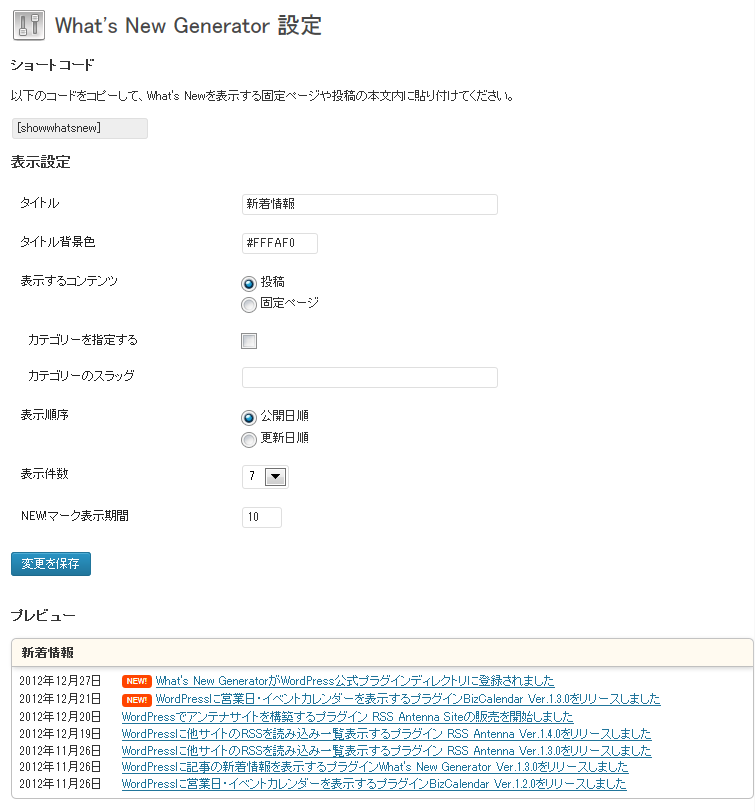
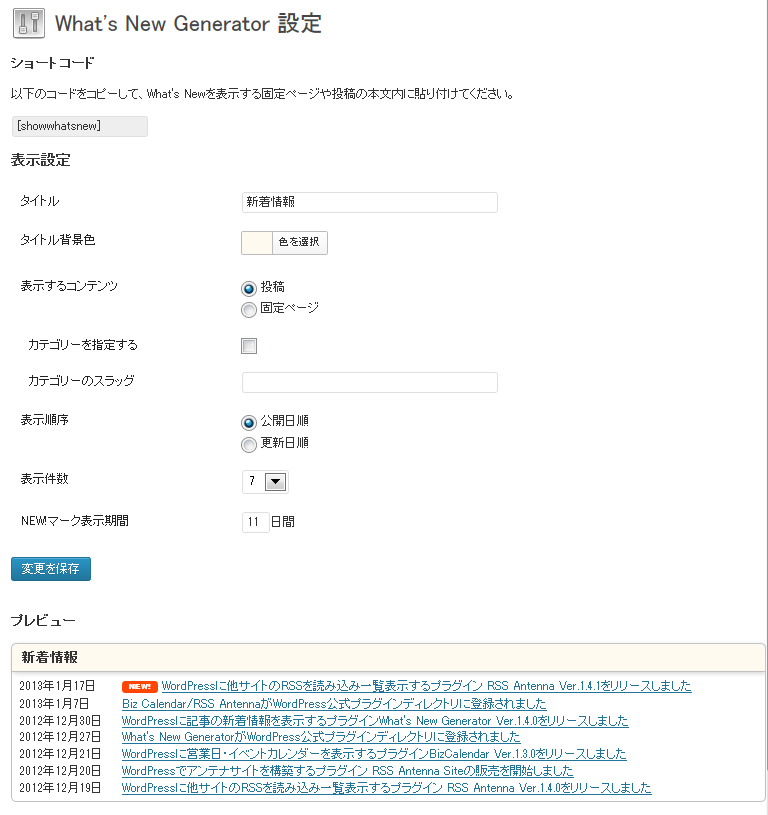
color picker追加
git-svn-id: https://plugins.svn.wordpress.org/whats-new-genarator/trunk@655155 b8457f37-d9ea-0310-8a92-e5e31aec5664

diff --git a/whats-new-admin.js b/whats-new-admin.js
@@ -1,0 +1,3 @@
+jQuery(document).ready(function($){
+    $('#wng_background_color').wpColorPicker();
+});

diff --git a/whats-new-generator.php b/whats-new-generator.php
@@ -3,7 +3,7 @@
 Plugin Name: What's New Generator
 Plugin URI: http://residentbird.main.jp/bizplugin/
 Description: What's New(新着情報)を指定した固定ページや投稿に自動的に表示するプラグインです。
-Version: 1.4.0
+Version: 1.5.0
 Author:WordPress Biz Plugin
 Author URI: http://residentbird.main.jp/bizplugin/
 */
@@ -30,7 +30,6 @@ class WhatsNewPlugin{
 
 	function on_deactivation(){
 		unregister_setting($this->option_name, $this->option_name );
-		//delete_option($this->option_name);
 		wp_deregister_style('whats-new-style');
 	}
 
@@ -50,6 +49,8 @@ class WhatsNewPlugin{
 
 	function myplugin_admin_styles() {
 		wp_enqueue_style( 'whats-new-style' );
+		wp_enqueue_style( 'wp-color-picker' );
+		wp_enqueue_script( 'whats-new-admin-js', plugins_url('whats-new-admin.js', __FILE__ ), array( 'wp-color-picker' ), false, true );
 	}
 
 	function on_activation() {
@@ -84,6 +85,9 @@ class WhatsNewPlugin{
 	}
 
 	function validate($input) {
+		if(!preg_match('/^#[a-f0-9]{6}$/i', $input['wng_background_color'])){
+			$input['wng_background_color'] = "#f5f5f5";
+		}
 		if ( !is_numeric( $input['wng_newmark']) || $input['wng_newmark'] < 0){
 			$input['wng_newmark'] = 0;
 		}
@@ -140,7 +144,7 @@ class WhatsNewPlugin{
 	function setting_newmark() {
 		$options = get_option($this->option_name);
 		$value = esc_html( $options["wng_newmark"] );
-		echo "<input id='wng_newmark' name='whats_new_options[wng_newmark]' size='4' type='text' value='{$value}' />";
+		echo "<input id='wng_newmark' name='whats_new_options[wng_newmark]' size='2' type='text' value='{$value}' />日間";
 	}
 
 
